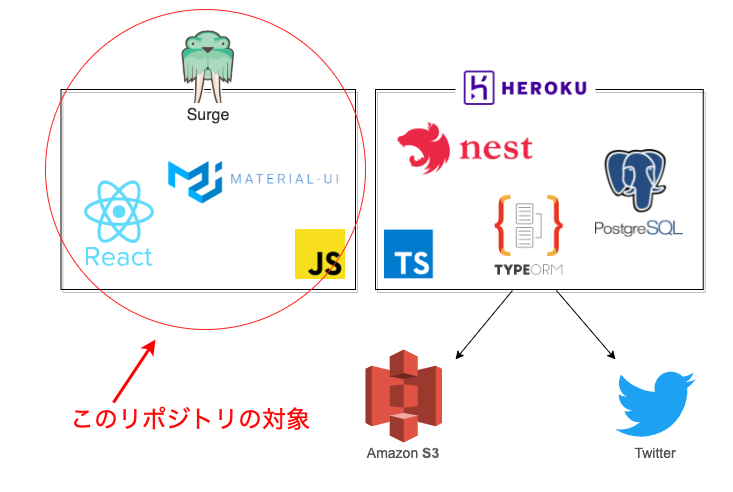
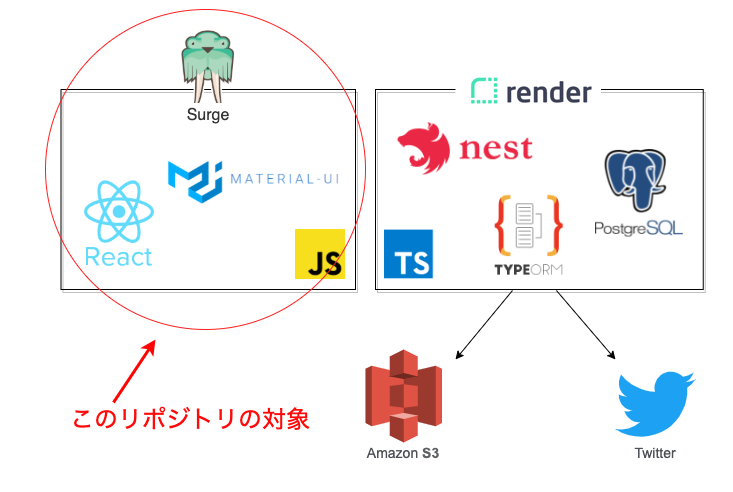
構成変更に伴う修正

Changed region(s): [[0.6303, 0.122, 0.8104, 0.2134]]

diff --git a/src/config.js b/src/config.js
@@ -1,7 +1,6 @@
 const config = {
   production: {
-    // host: "https://sbux-47pref-stg.herokuapp.com",
-    host: "https://sbux-47pref.herokuapp.com",
+    host: "https://sbux-47pref-back.onrender.com",
   },
   development: {
     host: "http://localhost:5001",

diff --git a/README.md b/README.md
@@ -21,7 +21,7 @@
 ```js
 const config = {
   production: {
-    host: "https://sbux-47pref.herokuapp.com",
+    host: "https://sbux-47pref-back.onrender.com",
   },
   development: {
     host: "http://localhost:5001",
